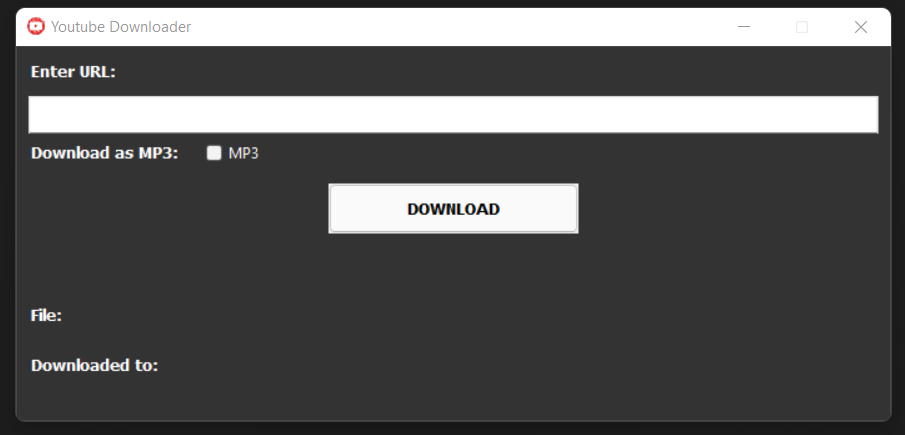
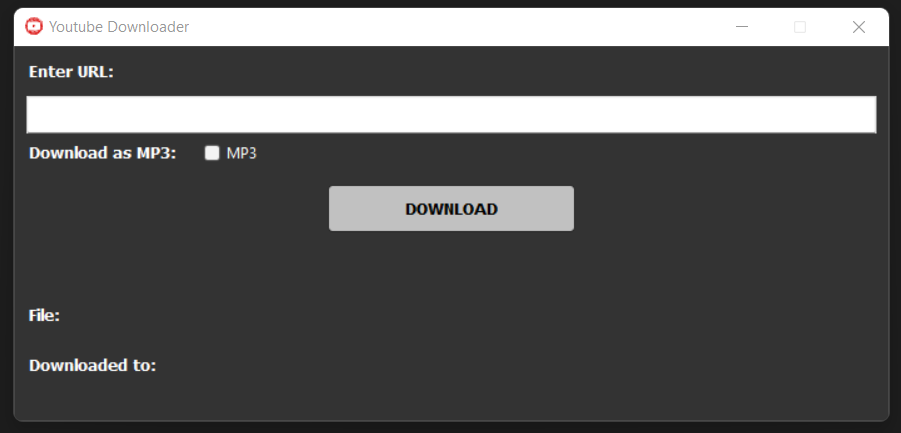
.

diff --git a/GUI apps/youtube_downloader/scripts/app.py b/GUI apps/youtube_downloader/scripts/app.py
@@ -15,7 +15,7 @@ class App(tk.Tk):
         self.configure(background='#333333')
         self.style = ttk.Style()
         self.style.configure('TCheckbutton', background='#333333', foreground='white')
-        self.style.configure('TButton', font=('Tahoma', 10, 'bold'))
+        self.style.configure('TButton', font=('Tahoma', 10, 'bold'), background='#333333')
 
         self.link_var = StringVar()
         self.mp3_var = BooleanVar()
